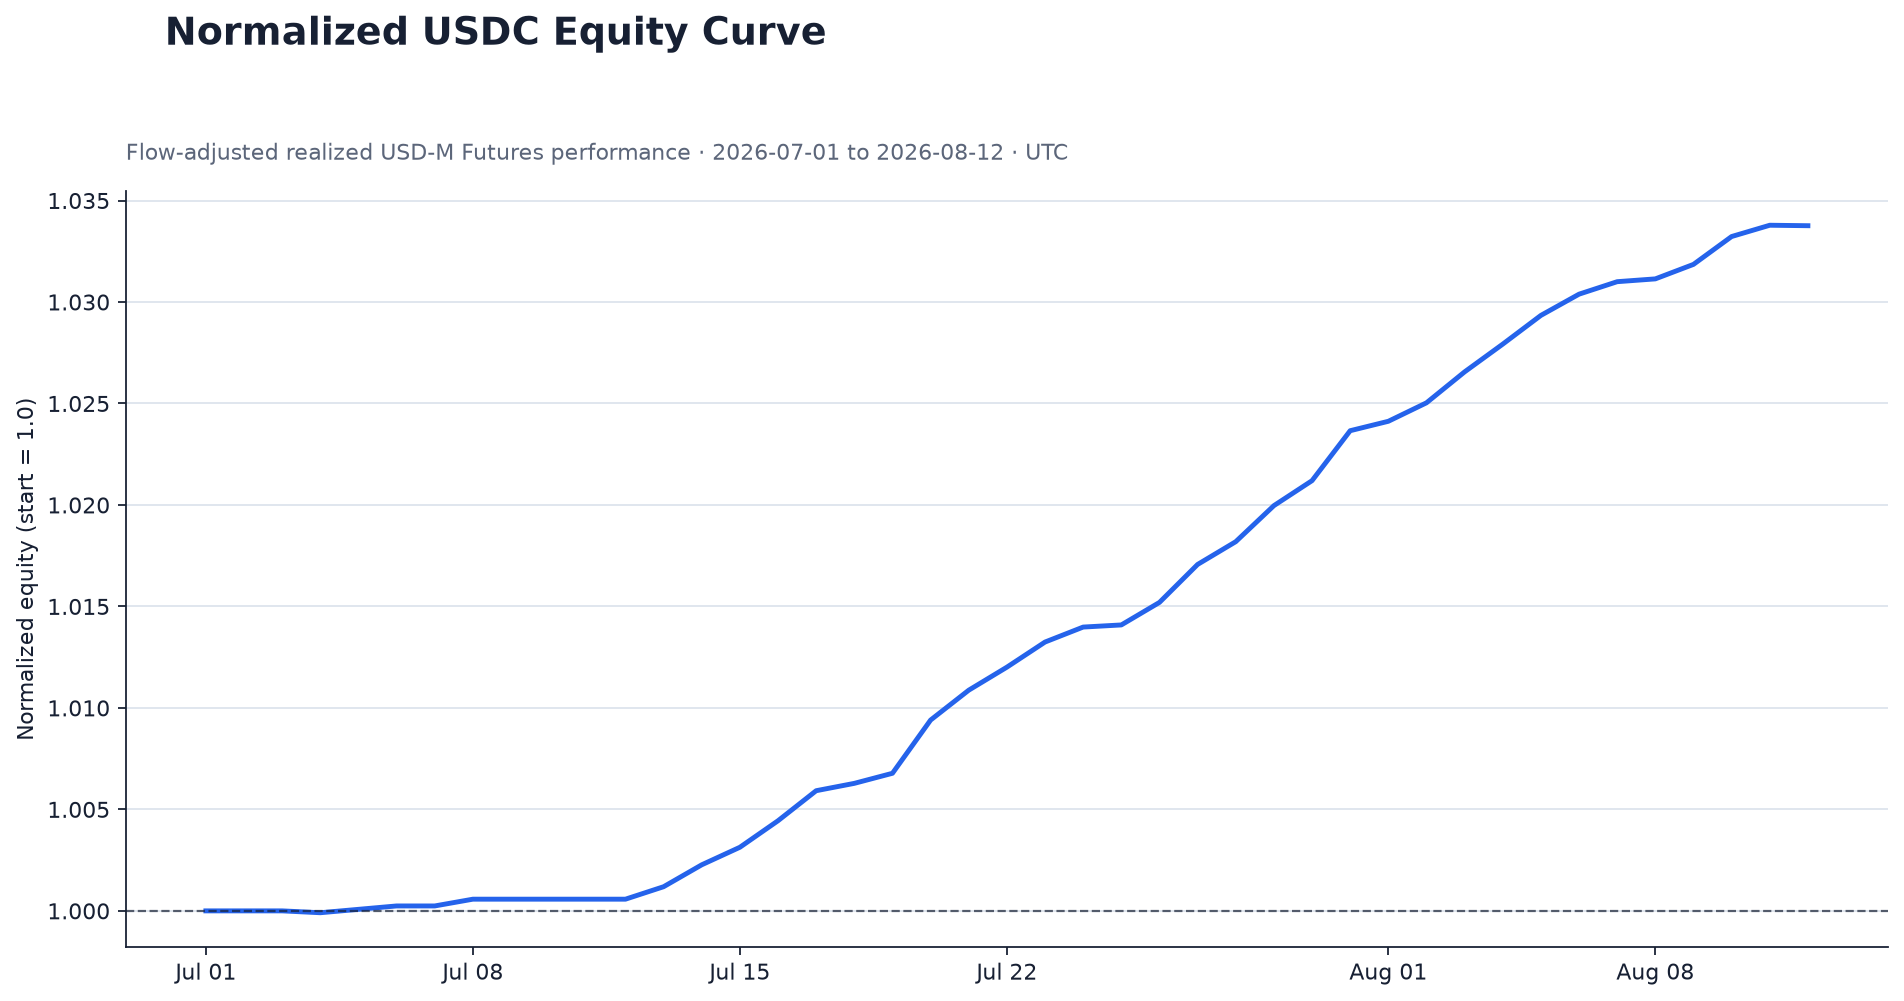
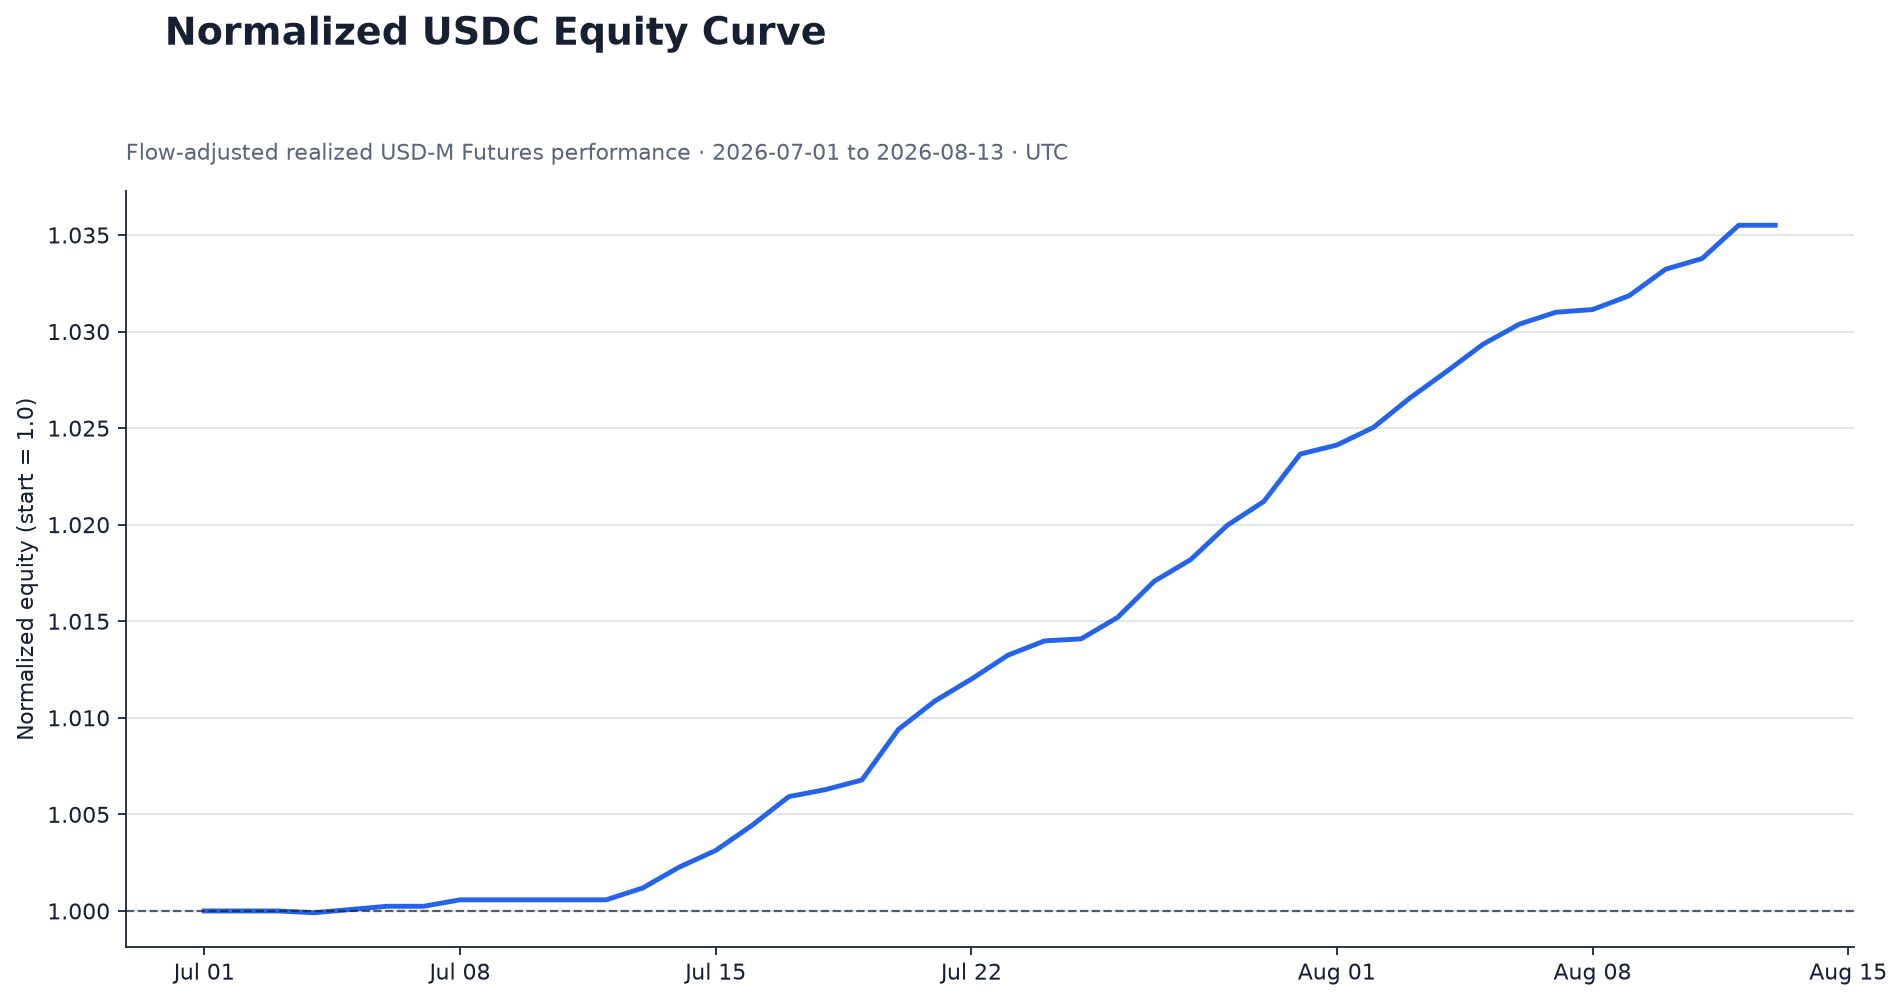
chore: update USDC performance

diff --git a/reports/performance_summary.md b/reports/performance_summary.md
@@ -1,7 +1,7 @@
 # Performance Summary
 
-Generated at: **2026-08-12T00:10:08Z**<br>
-Coverage: **2026-07-01 to 2026-08-12 (UTC)**<br>
+Generated at: **2026-08-13T00:10:12Z**<br>
+Coverage: **2026-07-01 to 2026-08-13 (UTC)**<br>
 Scope: **Daily USDC USD-M Futures realized performance**
 
 Absolute account values are not published. USD-M Futures transfers are excluded from trading return.
@@ -9,29 +9,30 @@ Sharpe and Sortino use private total daily returns including unrealized PnL; unr
 
 | Metric | Value |
 |---|---:|
-| Cumulative Return | 3.38% |
-| Latest Daily Return | -0.00% |
-| Annualized Return | 32.56% |
-| Annualized Volatility | 1.32% |
-| Sharpe Ratio | 5.563156 |
-| Sortino Ratio | 9.819082 |
+| Cumulative Return | 3.55% |
+| Latest Daily Return | 0.00% |
+| Annualized Return | 36.43% |
+| Annualized Volatility | 1.31% |
+| Sharpe Ratio | 6.092025 |
+| Sortino Ratio | 10.811215 |
 | Maximum Drawdown | -0.01% |
-| Calmar Ratio | 3564.403352 |
-| Win Rate | 94.29% |
-| Profit Factor | 703.072175 |
-| Total Realized Pnl Usdc | 148.448599 |
+| Calmar Ratio | 3988.021875 |
+| Win Rate | 97.22% |
+| Profit Factor | 1441.298823 |
+| Total Realized Pnl Usdc | 156.203299 |
 | Total Commission Usdc | -0.075227 |
-| Total Funding Fee Usdc | 1.562173 |
-| Total Net Pnl Usdc | 149.935545 |
-| Number Of Trading Days | 35 |
-| Number Of Trades | 1070 |
-| Valid Return Days | 43 |
-| Excluded Return Days | 0 |
+| Total Funding Fee Usdc | 1.660035 |
+| Total Net Pnl Usdc | 157.788106 |
+| Number Of Trading Days | 36 |
+| Number Of Trades | 1114 |
+| Valid Return Days | 41 |
+| Excluded Return Days | 3 |
 | Annualization Factor | 365 |
 
 ## Warnings and coverage notes
 
 - Non-performance income types were treated as capital adjustments: COIN_SWAP_DEPOSIT
+- 3 day(s) were excluded from ratios because the reconstructed capital base was invalid.
 - Sharpe and Sortino include unrealized PnL and begin on 2026-07-06 because earlier official equity snapshots are unavailable.
 
 ## Definitions
